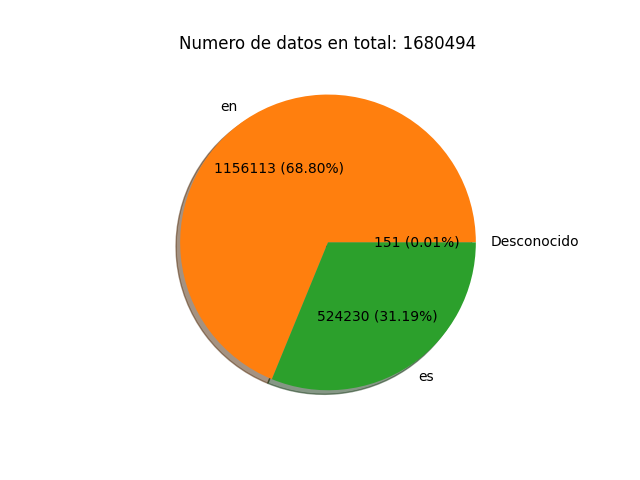
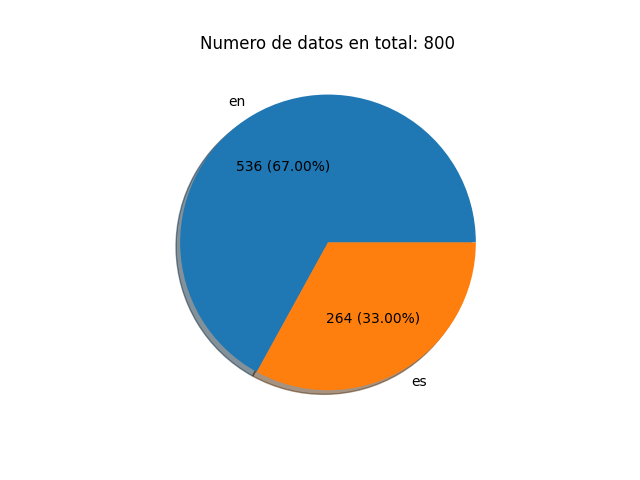
mejor el feedback de varios de los programas

Changed region(s): [[0.25, 0.1875, 0.75, 0.8438], [0.2812, 0.0625, 0.75, 0.125], [0.7812, 0.4688, 0.9062, 0.5312]]

diff --git a/captura_de_datos/catch_tweets.py b/captura_de_datos/catch_tweets.py
@@ -10,7 +10,7 @@ import re, csv, sys, json, time, threading, os
 
 
 output_path = "./twitter_data/datos_en_bruto/catched_tweets_0.csv"  # <----- Ruta de salida para el archivo, el archivo 4 es para pruebas.
-number_of_tweets_for_catch = 400  # <----- Numero de tweets en total.
+number_of_tweets_for_catch = 600  # <----- Numero de tweets en total.
 start_time = time.time()
 lock = threading.Lock()
 readed_tweets = 0
@@ -23,9 +23,7 @@ if os.path.exists(output_path):
 else:
     rows_count = 0
 
-print("")
-print("Tweets iniciales en el archivo " + str(output_path.split("/")[-1]) + ": " + str(rows_count))
-time.sleep(6)
+print("\nTweets iniciales en el archivo " + str(output_path.split("/")[-1]) + ": " + str(rows_count))
 
 tags = [
     'covid-19', 'covid19', 'Covid-19', 'Covid19', 'COVID-19', 'COVID19', 'CoVid-19', 'CoVid19', 'COVIDー19',
@@ -50,7 +48,8 @@ class Listener(StreamListener):
             return
 
     def on_error(self, status):
-        print("Error: " + str(status))
+        sys.stdout.write("\rError " + str(status) + " puede que hayan mas de 3 maquinas usando las credenciales")
+        sys.stdout.flush()
         return False
 
 
@@ -73,16 +72,20 @@ def process_incoming_data(**thread_data):
             writed_tweets += 1
             rows_count += 1
             lock.release()
-            print(
-                "Capturados: " +
-                str(writed_tweets) + " de " +
+            sys.stdout.write(
+                "\rCapturados: " +
+                str(writed_tweets) + "/" +
                 str(number_of_tweets_for_catch) +
-                " - tiempo: " + str(int((time.time() - start_time) / 60)) +
-                " minutos - tweets en el archivo " + output_path.split("/")[-1] +
-                ": " + str(rows_count) +
-                " - hilo: " + str(threading.current_thread().name) +
-                " - tweets revisados: " + str(readed_tweets)
+                " (" + str(
+                    round((int(writed_tweets) / int(number_of_tweets_for_catch)) * 100, 2)
+                ) +
+                "%) - tiempo: " + str(int((time.time() - start_time) / 60)) +
+                " min - datos en " + output_path.split("/")[-1] +
+                ": " + str(rows_count) + " - revisados: " + str(readed_tweets) +
+                " - utiles: " + str(writed_tweets) + "/" + str(readed_tweets) + " ("
+                + str(round((int(writed_tweets) / int(readed_tweets)) * 100, 2)) + ")%"
             )
+            sys.stdout.flush()
         return
 
 
@@ -154,20 +157,22 @@ cSecret = "JsB5NFUFXueV5I2Oy2uPTuVpkMXFQV06XpIV1dpHQmNilWplMj"
 authenticator = OAuthHandler(cKey, cSecret)
 authenticator.set_access_token(aToken, aTokenSecret)
 
-print("")
+print("Iniciando captura")
 while writed_tweets != number_of_tweets_for_catch:
     stream = Stream(authenticator, Listener())
     try:
         stream.filter(languages=['en', 'es'], track=tags)
     except (Timeout, ConnectionError, ProtocolError):
         stream.disconnect()
-        print("\nConexion cerrada, limite de lectura superado, esperando para reconectar.")
-        time.sleep(20)
-        print("Reconectando... \n")
+        time.sleep(8)
     except (KeyboardInterrupt, SystemExit):
         stream.disconnect()
-        print("\nTweets capturados: " + str(writed_tweets) + "\n")
+        print("\nCaptura finalizada forzosamente")
+        print("Tweets finales en el archivo " + output_path.split("/")[-1] + ": " + str(rows_count))
+        print("Tweets capturados: " + str(writed_tweets) + "\n")
         sys.exit()
 
-print("\nTweets capturados: " + str(writed_tweets) + "\n")
+print("\nCaptura finalizada con normalidad")
+print("Tweets finales en el archivo " + output_path.split("/")[-1] + ": " + str(rows_count))
+print("Tweets capturados: " + str(writed_tweets) + "\n")
 sys.exit()

diff --git a/captura_de_datos/data_analysis.py b/captura_de_datos/data_analysis.py
@@ -1,11 +1,11 @@
 import pandas as pd
 import matplotlib.pyplot as plt
-import os, math, datetime, collections
+import os, sys, math, datetime, collections
 
 # pip3 install -r requirements.txt <---- por si da flojera instalarlos a mano.
 
 
-usar_muestra = 0
+usar_muestra = 1
 originales = 'originales'  # <---- o arregaldos
 
 tags_muerte = [
@@ -23,11 +23,14 @@ output_path2 = "./twitter_data/datos_en_bruto/catched_tweets_sample.csv"
 
 if usar_muestra == 1:
     if os.path.exists(output_path2) == True:
+        print("\nCargando muestra de datos")
         df = pd.read_csv(output_path2, encoding='utf8', dtype=str, engine='python')
     elif os.path.exists(output_path2) == False:
+        print("\nCreando muestra de datos")
         df = pd.read_csv(output_path1, encoding='utf8', dtype=str, engine='python').sample(n=800, random_state=8)
         df.to_csv(output_path2, index=False, encoding="utf-8")
 elif usar_muestra == 0:
+    print("\nCargando datos")
     df = pd.read_csv(output_path1, encoding='utf8', dtype=str, engine='python')
 
 global_count = 0
@@ -41,6 +44,9 @@ mourning_matches_pre_count = dict()
 cifras_significativas = 8
 
 for i, row in df.iterrows():
+
+    sys.stdout.write("\rLectura de datos completada al " + str(round(((i + 1) / (df.shape[0])) * 100, 4)) + "%")
+    sys.stdout.flush()
 
     global_count += 1
     text = df.at[i, 'text']
@@ -106,6 +112,8 @@ for i, row in df.iterrows():
         elif key not in country_count:
             country_count[key] = 1
 
+print("\nCargando datos a vectores")
+
 mourning_matches_pre_count_col = collections.OrderedDict(sorted(mourning_matches_pre_count.items()))
 vector_etiquetas_m = [str(element[0]) for element in mourning_matches_pre_count_col.items()]
 vector_conteo_m = [int(element[-1]) for element in mourning_matches_pre_count_col.items()]
@@ -137,6 +145,8 @@ def make_autopct(values):
 
     return my_autopct
 
+
+print("Generando graficas")
 
 plt.pie(vector_conteo_idiomas_global, labels=vector_idiomas_global, shadow=True,
         autopct=make_autopct(vector_conteo_idiomas_global))
@@ -178,4 +188,4 @@ plt.clf()
 
 del vector_fechas, vector_tweets
 
-print("\nProceso finalizado, las garficas fueron guardads en la carpeta graficas_datos.")
+print("Proceso finalizado, las garficas fueron guardads en la carpeta graficas_datos/" + originales)

diff --git a/captura_de_datos/join_files.py b/captura_de_datos/join_files.py
@@ -8,29 +8,31 @@ output_path1 = "./twitter_data/datos_en_bruto/catched_tweets_originales.csv"  # 
 output_path2 = "./twitter_data/datos_en_bruto/catched_tweets_0.csv"  # <---- este se elimina.
 
 if os.path.exists(output_path1) and os.path.exists(output_path2) and output_path1 != output_path2:
-    print("")
     file = open(output_path1)
     rows_count0 = sum(1 for row in csv.reader(file)) - 1
     file.close()
     file = open(output_path2)
     rows_count2 = sum(1 for row in csv.reader(file)) - 1
     file.close()
+    print("\nCargando datos de " + str(output_path2.split("/")[-1]) + " y de " + str(output_path1.split("/")[-1]))
     df1 = pd.read_csv(output_path1, encoding='utf8', dtype=str, engine='python')
     df2 = pd.read_csv(output_path2, encoding='utf8', dtype=str, engine='python')
+    print("Uniendo datos de " + str(output_path2.split("/")[-1]) + " a " + str(output_path1.split("/")[-1]))
     df1 = df1.append(df2)
     df1.to_csv(output_path1, index=False, encoding="utf-8")
     print(
-        "\nArchivo " + str(output_path2.split("/")[-1]) + " Exitosamente unido al archivo " +
+        "Archivo " + str(output_path2.split("/")[-1]) + " Exitosamente unido al archivo " +
         str(output_path1.split("/")[-1])
     )
     file = open(output_path1)
     rows_count1 = sum(1 for row in csv.reader(file)) - 1
     file.close()
     df1 = pd.read_csv(output_path1)
-    print("\nTweets finales en el archivo " + str(output_path1.split("/")[-1]) + ": " + str(rows_count1))
+    print("\nReporte de resultados union de datos: ")
+    print("Tweets finales en el archivo " + str(output_path1.split("/")[-1]) + ": " + str(rows_count1))
     print("Tweets iniciales en el archivo " + str(output_path1.split("/")[-1]) + ": " + str(rows_count0))
     print("Tweets iniciales en el archivo " + str(output_path2.split("/")[-1]) + ": " + str(rows_count2))
     os.remove(output_path2)
     print("\nArchivo " + str(output_path2.split("/")[-1]) + " exitosamente eliminado")
 else:
-    print("Alguno de los archivo no existe o fue borrado")
+    print("\nAlguno de los archivo no existe o fue borrado")

diff --git a/captura_de_datos/clean_data.py b/captura_de_datos/clean_data.py
@@ -1,17 +1,20 @@
-import re
 import pandas as pd
+import re, sys
 
 # pip3 install -r requirements.txt <---- por si da flojera instalarlos a mano.
 
-
+print("\nCargando datos")
 output_path = "./twitter_data/datos_en_bruto/catched_tweets_originales.csv"
 df = pd.read_csv(output_path, encoding='utf8', dtype=str, engine='python')
 datos_en_el_archivo = 0
 datos_eliminados = 0
 datos_reparados = 0
 
-print("\nDatos eliminados: ")
 for i, row in df.iterrows():
+
+    sys.stdout.write("\rLimpieza de datos completada al " + str(round(((i + 1) / (df.shape[0])) * 100, 4)) + "%")
+    sys.stdout.flush()
+
     datos_en_el_archivo += 1
     texto_anterior = str(df.at[i, 'text'])
     texto_nuevo = (re.sub(' +', ' ', re.sub("http\S+", "", str(df.at[i, 'text']).replace("\n", " ")))).strip()
@@ -20,13 +23,16 @@ for i, row in df.iterrows():
         datos_reparados += 1
     if str(df.at[i, 'text']).endswith('…'):
         datos_eliminados += 1
-        print(df.at[i, 'id'], ' - ', df.at[i, 'text'])
         df = df.drop([i])
+
+print("\nLimpieza finalizada")
+
+print("\nReporte de resultados limpieza: ")
 
 df.drop_duplicates(subset=['id', 'text'], inplace=True)
 df.sort_values('id')
 df.to_csv(output_path, index=False, encoding="utf-8")
 datos_eliminados += (datos_en_el_archivo - int(df.shape[0]))
-print("\nDatos en los que se reparo la sintaxis: " + str(datos_reparados))
+print("Datos en los que se reparo la sintaxis: " + str(datos_reparados))
 print("Datos limpios en el archivo: " + str(datos_en_el_archivo - datos_eliminados))
 print("Datos eliminados: " + str(datos_eliminados) + "\n")
